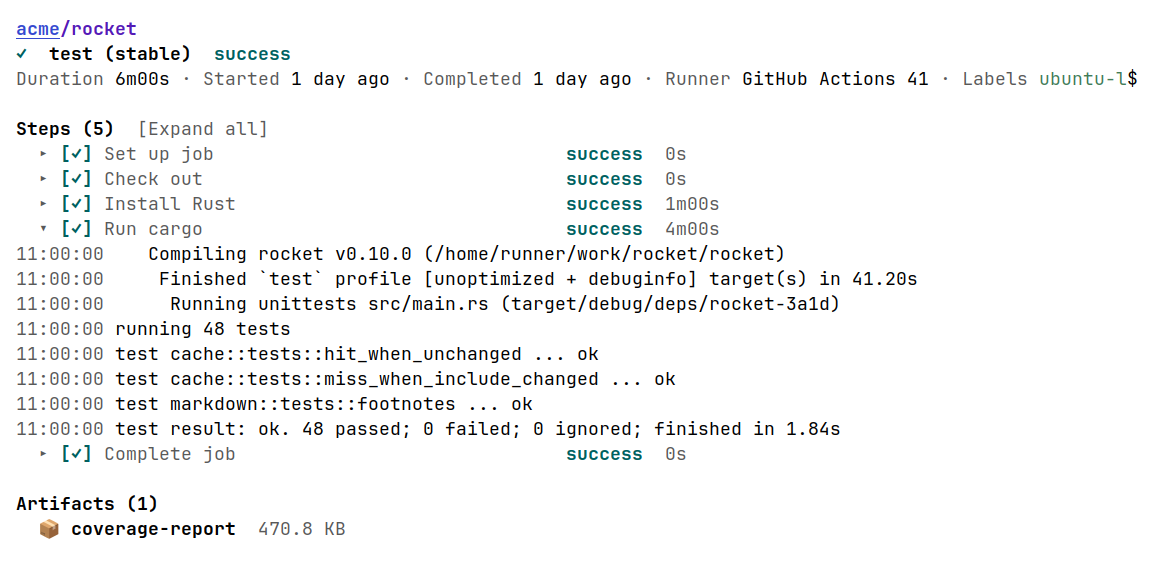
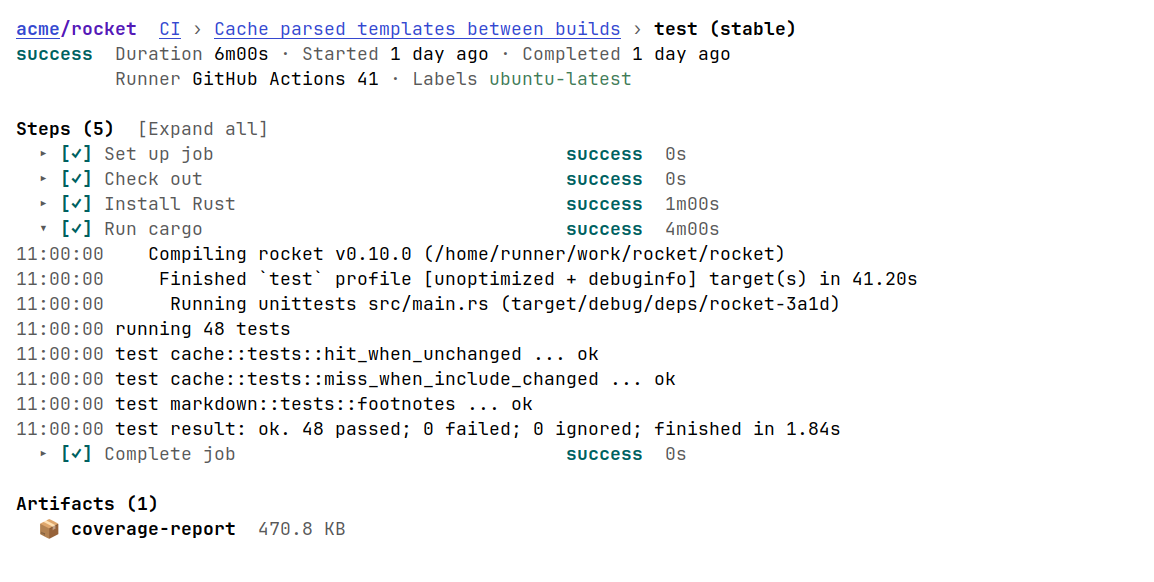
Open run, job and workflow pages with a header like a PR's
They showed the repository alone on their first line and what they were
about below it.  Now, as on an issue or pull request, the top line is
owner/repo and the page's name: its workflow, run and job, the pages
above it linking up to them.  The state heads the lines of details
under it.

Changed region(s): [[0.0, 0.0309, 0.8111, 0.1546], [0.8423, 0.1237, 0.9983, 0.1546]]

diff --git a/docs/user-interface-conventions.md b/docs/user-interface-conventions.md
@@ -819,6 +819,17 @@ OPEN    Assignees @bob · Reviewers none · Labels bug
         feature → main · Review required · Milestone v1
 ```
 
+A workflow, run or job page reads the same way: after `owner/repo`
+come the pages above it, from the workflow down, as links, then the
+page itself; its state heads the lines of details below.  Build it with
+`octocat-vui-actions-header`.
+
+```
+octocat/hello  CI › Fix the greeting › test (stable)
+success  Duration 6m00s · Started 1 day ago · Completed 1 day ago
+         Runner GitHub Actions 41 · Labels ubuntu-latest
+```
+
 A title too long for the line is cut with `…`; hovering or resting
 point on it shows the whole.
 

diff --git a/CHANGELOG.md b/CHANGELOG.md
@@ -4,6 +4,7 @@ All notable changes to this project will be documented in this file.
 The format is based on [Keep a Changelog](https://keepachangelog.com/en/1.0.0/).
 
 ## [Unreleased]
+* Run, job and workflow pages open with a header like a PR's, linking up to the workflow
 * `M-x octocat-run-list` and `M-x octocat-workflow-list` open the Actions pages
 * `C-c C-j` finds a repository's workflows, by name or file
 * Runs are laid out as on GitHub: status and title first, then workflow, branch, date
